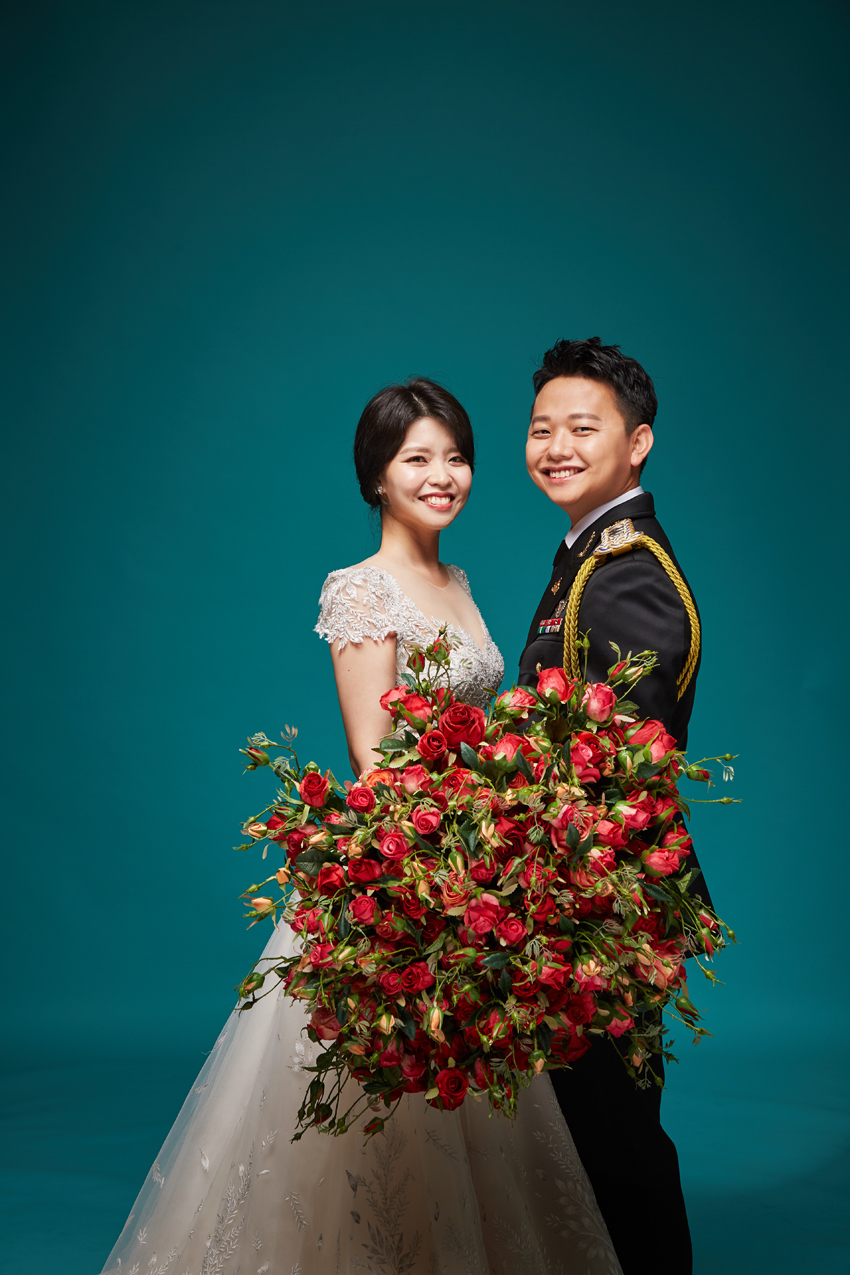
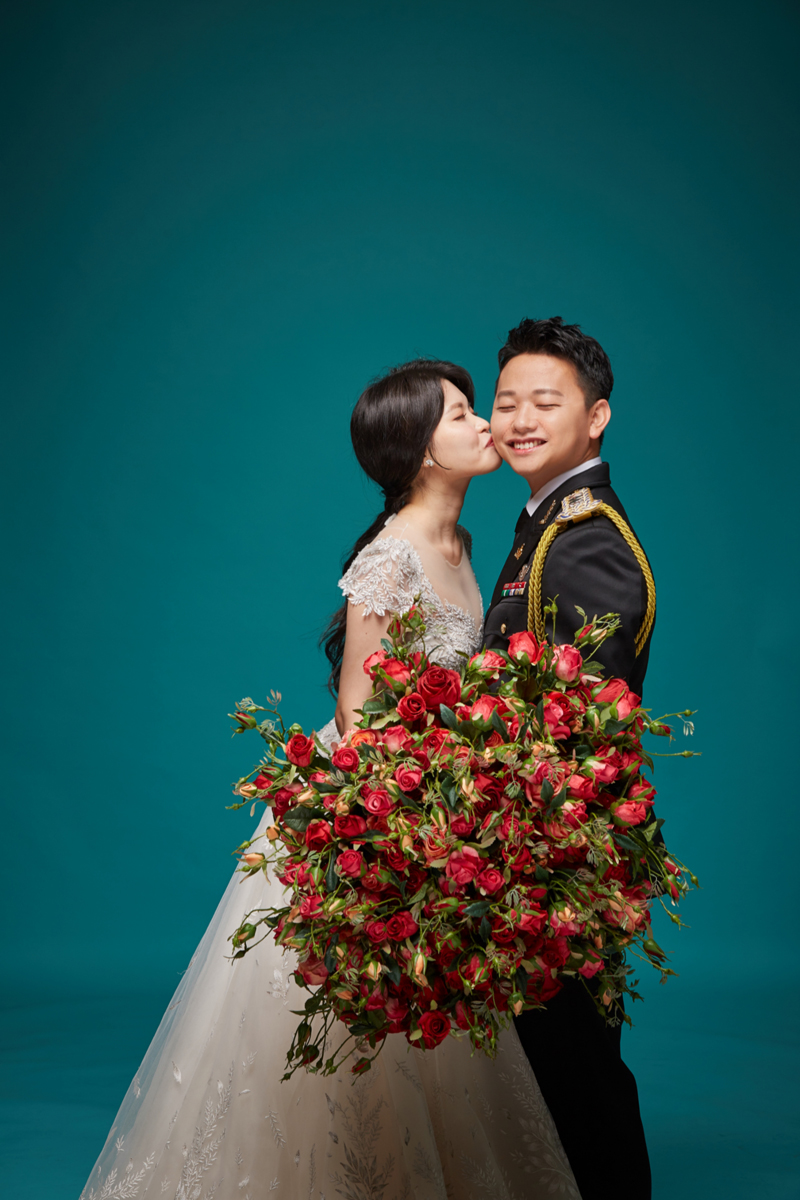
ㅋㅋㅋ

diff --git a/invitation/inhye2/index.html b/invitation/inhye2/index.html
@@ -67,7 +67,7 @@
                       <td class="name">혁주</td>
                     </tr>
                     <tr>
-                      <td class="parents">아버지, 어머니</td>
+                      <td class="parents">이명환, 박향숙</td>
                       <td>의 장녀</td>
                       <td class="name">인혜</td>
                     </tr>
@@ -88,13 +88,13 @@
                     </tr>
                     <tr class="sns_icon">
                       <td data-tel="0113014444" class="paddingTd">
-                        <span>아버지</span>
+                        <span>이명환</span>
                         <img data-type="tel" src="image/phone.png" />
                         <img data-type="sms" src="image/sms.png" />
                       </td>
                       <td></td>
                       <td data-tel="01099106731" class="paddingTd">
-                        <span>어머니</span>
+                        <span>박향숙</span>
                         <img data-type="tel" src="image/phone.png" />
                         <img data-type="sms" src="image/sms.png" />
                       </td>
@@ -152,7 +152,7 @@
               <div id="selectedPhoto"></div>
               <div class="photo_wrap">
                 <div class="photo_line">
-                    <div class="photo none"><img src="image/photo/wedding.png" /></div>
+                    <div class="photo none"><img src="image/photo/12.jpg" /></div>
                     <div class="photo"><img src="image/photo/2.jpg" /></div>
                     <div class="photo"><img src="image/photo/3.jpg" /></div>
                     <div class="photo"><img src="image/photo/4.jpg" /></div>
@@ -205,7 +205,10 @@
                     </td>
                   </tr>
                   <tr>
-                    <td colspan="2" style="border:0px;">620002-04-071990 국민</td>
+                    <td colspan="2" style="border:0px;">620002-04-071990 국민 채혁주</td>
+                  </tr>
+                  <tr>
+                    <td colspan="2" style="border:0px;">238502 04 101708 국민 이인혜</td>
                   </tr>
                 </table>
               </div>

diff --git a/invitation/inhye/index.html b/invitation/inhye/index.html
@@ -67,7 +67,7 @@
                       <td class="name">혁주</td>
                     </tr>
                     <tr>
-                      <td class="parents">아버지, 어머니</td>
+                      <td class="parents">이명환, 박향숙</td>
                       <td>의 장녀</td>
                       <td class="name">인혜</td>
                     </tr>
@@ -88,13 +88,13 @@
                     </tr>
                     <tr class="sns_icon">
                       <td data-tel="0113014444" class="paddingTd">
-                        <span>아버지</span>
+                        <span>이명환</span>
                         <img data-type="tel" src="image/phone.png" />
                         <img data-type="sms" src="image/sms.png" />
                       </td>
                       <td></td>
                       <td data-tel="01099106731" class="paddingTd">
-                        <span>어머니</span>
+                        <span>박향숙</span>
                         <img data-type="tel" src="image/phone.png" />
                         <img data-type="sms" src="image/sms.png" />
                       </td>
@@ -152,7 +152,7 @@
               <div id="selectedPhoto"></div>
               <div class="photo_wrap">
                 <div class="photo_line">
-                    <div class="photo none"><img src="image/photo/wedding.png" /></div>
+                    <div class="photo none"><img src="image/photo/12.jpg" /></div>
                     <div class="photo"><img src="image/photo/2.jpg" /></div>
                     <div class="photo"><img src="image/photo/3.jpg" /></div>
                     <div class="photo"><img src="image/photo/4.jpg" /></div>
@@ -203,9 +203,6 @@
                       <img data-type="tel" src="image/phone.png" />
                       <img data-type="sms" src="image/sms.png" />
                     </td>
-                  </tr>
-                  <tr>
-                    <td colspan="2" style="border:0px;">620002-04-071990 국민</td>
                   </tr>
                 </table>
               </div>
